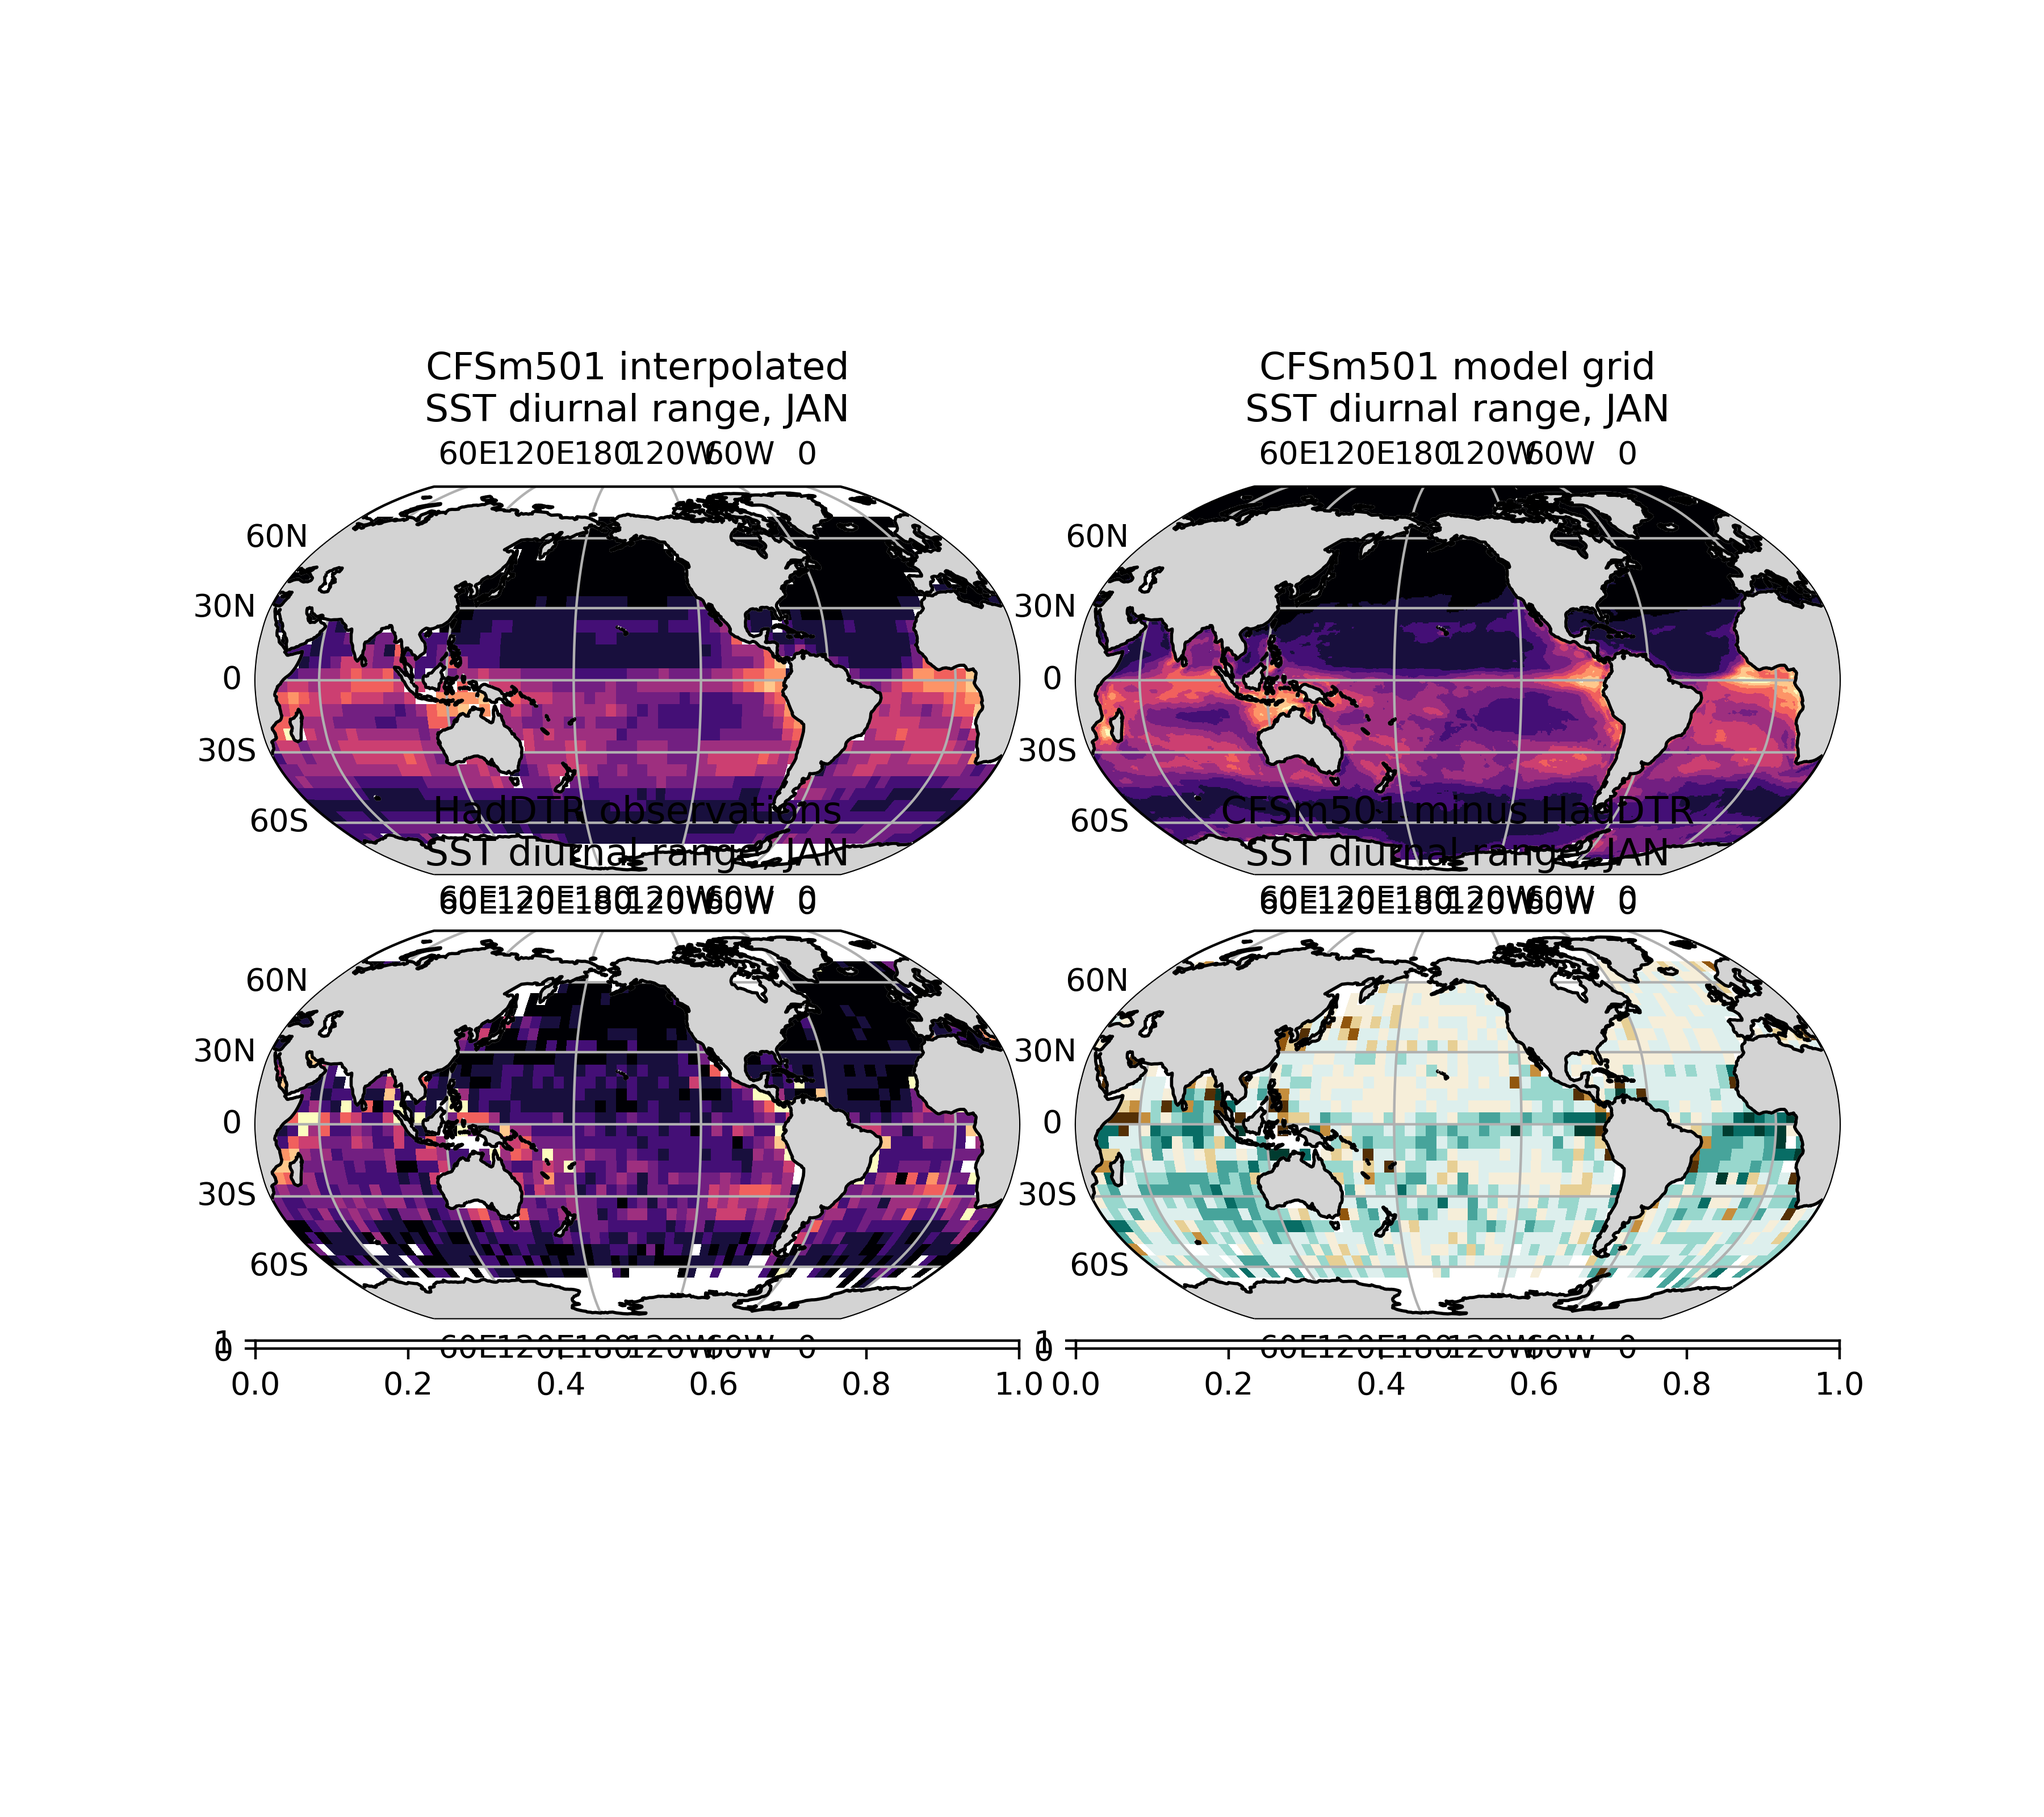
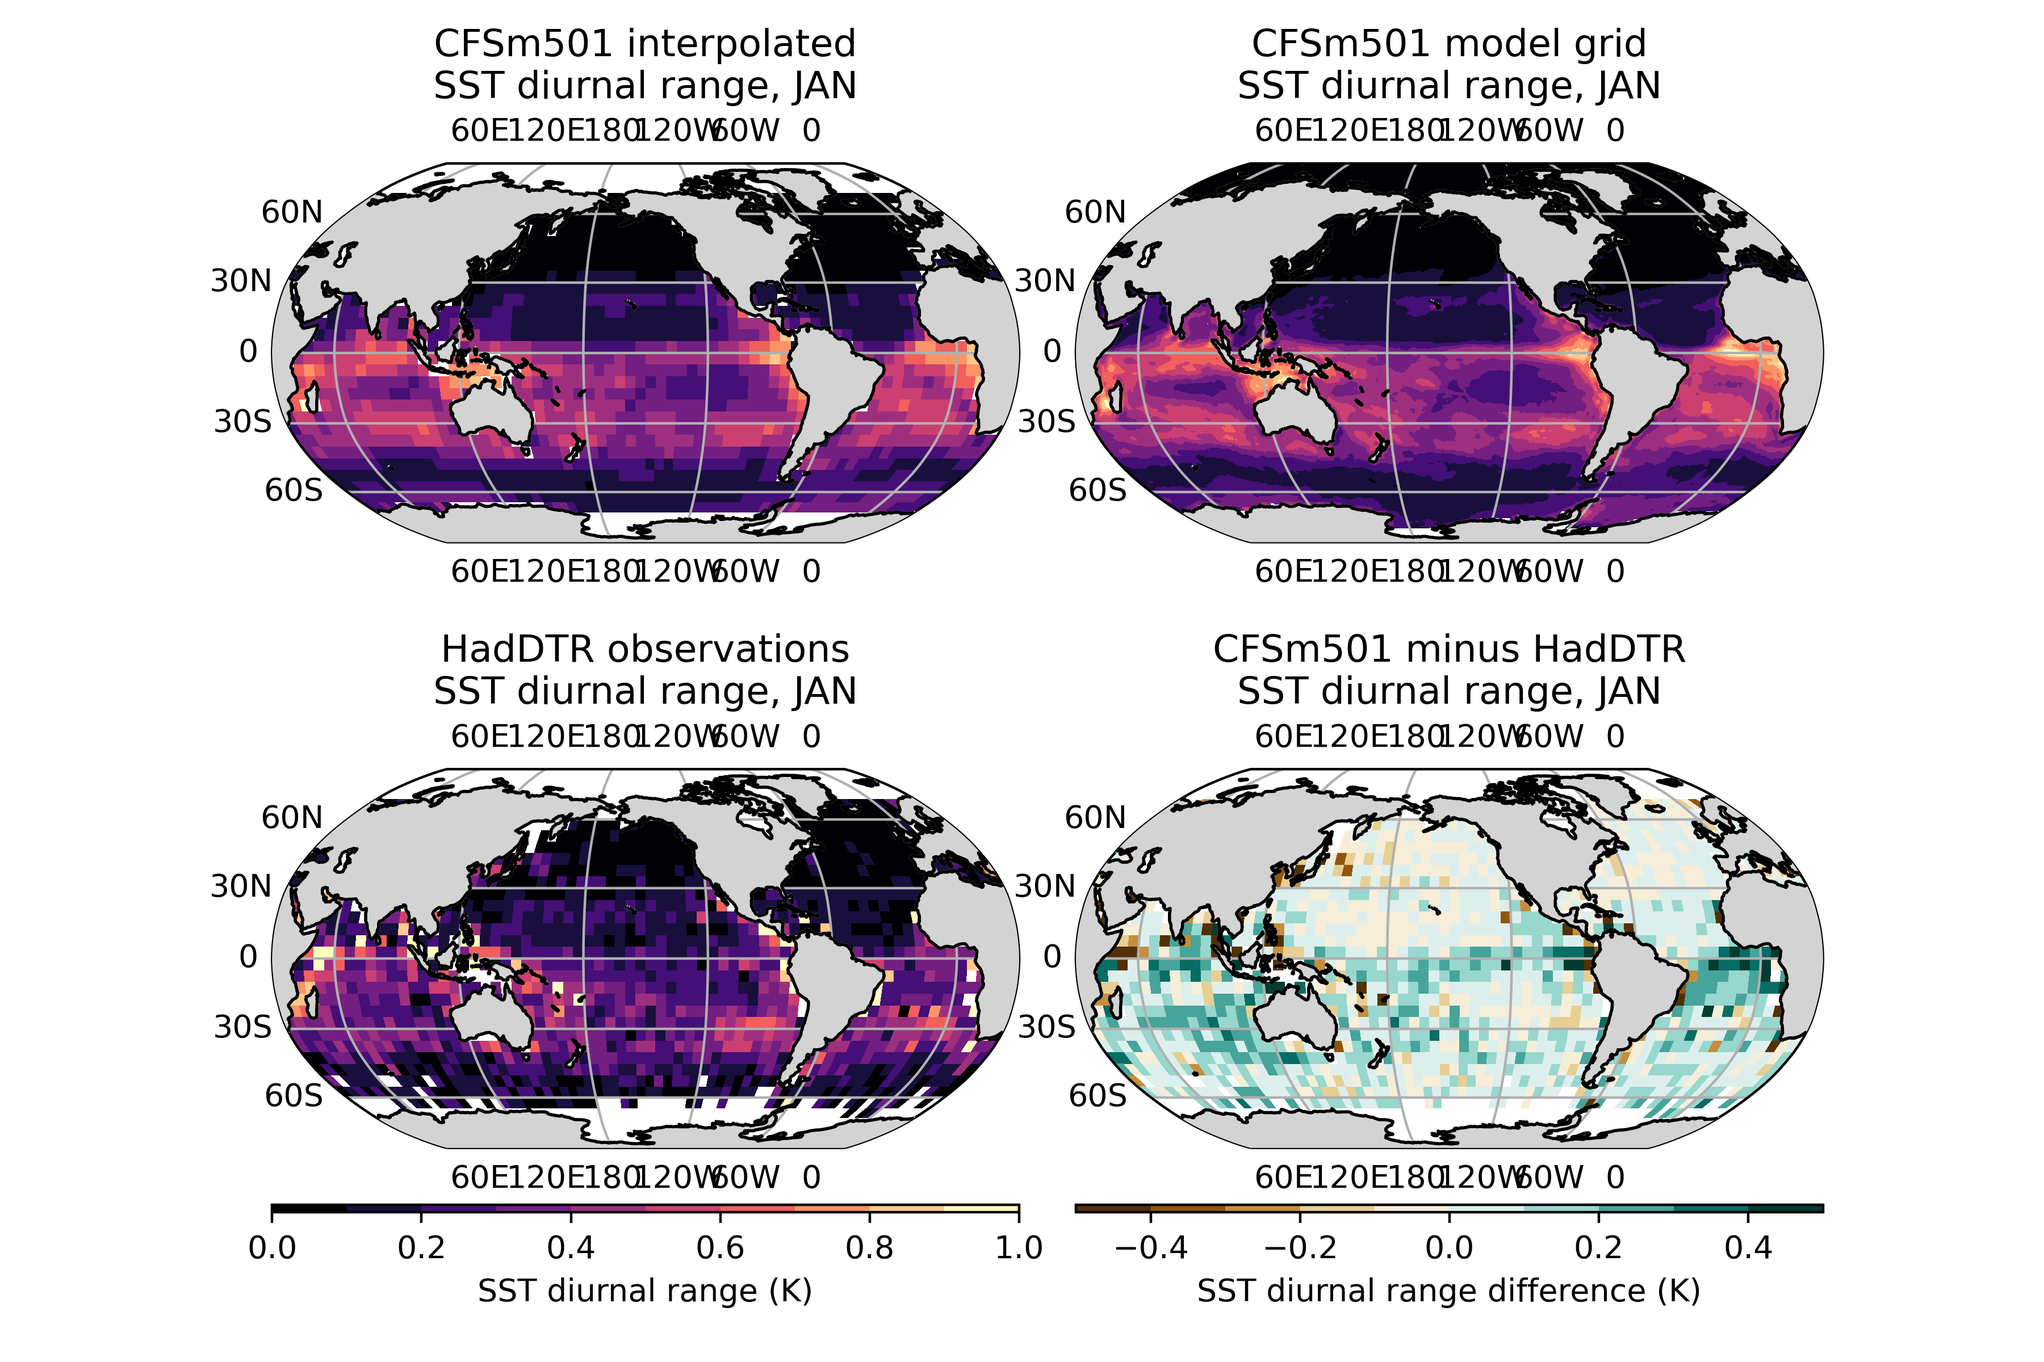
Updates comparison maps with HadDTR.

diff --git a/diurnal_cycle/analysis/haddtr_comp_maps.py b/diurnal_cycle/analysis/haddtr_comp_maps.py
@@ -90,15 +90,15 @@ def main(plot_month):
     # Set up figure and axes.
     data_crs = ccrs.PlateCarree()
     plot_crs = ccrs.Robinson(central_longitude=-150)
-    fig = plt.figure(figsize=(9, 8))
+    fig = plt.figure(figsize=(9, 6))
     axes_class = (GeoAxes,
                   dict(map_projection=plot_crs))
     axgr = AxesGrid(fig, 111, axes_class=axes_class,
                     nrows_ncols=(2, 2),
-                    axes_pad=0.25,
+                    axes_pad=(0.25,1.0),
                     cbar_location='bottom',
                     cbar_mode='edge',
-                    cbar_pad=0.1,
+                    cbar_pad=0.25,
                     cbar_size='2%',
                     label_mode='')
     
@@ -111,6 +111,7 @@ def main(plot_month):
                                  ncolors=cmap_d.N)
     
     # Loop over axes and plot each.
+    plots=  {}
     for i, ax in enumerate(axgr):
         print(i)
         plot_dict = plot_data[i]
@@ -121,7 +122,7 @@ def main(plot_month):
         else:
             latm = dsr.geolat_t.data
             lonm = switch_lon_lims(dsr.geolon_t.data, -180.0)
-        import pdb; pdb.set_trace()    
+         
         # Add features.
         ax.set_global()
         gl = ax.gridlines(draw_labels=True,
@@ -136,17 +137,38 @@ def main(plot_month):
         ax.add_feature(cfeature.LAND, facecolor='lightgray', zorder=4)
         
         # Plot the data.
-        p = ax.pcolormesh(lonm, latm,
-	        	  plot_dict['data'].data,
-                          transform=data_crs,
-                          cmap=cmap_d if plot_dict['colb'] == 'diff' else cmap_b,
-                          norm=norm_d if plot_dict['colb'] == 'diff' else norm_b,
-                          shading='nearest')
+        plots[plot_dict['colb']] = ax.pcolormesh(
+            lonm, latm,
+	    plot_dict['data'].data,
+            transform=data_crs,
+            cmap=cmap_d if plot_dict['colb'] == 'diff' else cmap_b,
+            norm=norm_d if plot_dict['colb'] == 'diff' else norm_b,
+            shading='nearest')
         
         # Add title.
         ax.set_title(plot_dict['title'])
         
-    # Add colorbars?
+        # Sort ticklabels.
+        if i in [0, 1]:
+            ax.xaxis.set_tick_params(which='both', labelrotation=45,
+                                     labelbottom=False, labeltop=True)
+        else:
+            ax.xaxis.set_tick_params(which='both', labelrotation=45,
+                                     labelbottom=True, labeltop=False)
+        if i in [0, 2]:
+            ax.yaxis.set_tick_params(which='both',
+                                     labelleft=True, labelright=False)
+        else:
+            ax.yaxis.set_tick_params(which='both',
+                                     labelleft=False, labelright=True)
+
+    # Add colorbars.
+    cba = axgr.cbar_axes[0].colorbar(plots['abs'], 
+                                     pad=0.25, 
+                                     label='SST diurnal range (K)')
+    cbd = axgr.cbar_axes[1].colorbar(plots['diff'], 
+                                     pad=0.25,
+                                     label='SST diurnal range difference (K)')
     
     # Save file.
     plotdir = '/ncrc/home2/Jack.Reeveseyre/cfs-analysis/diurnal_cycle/plots/'
